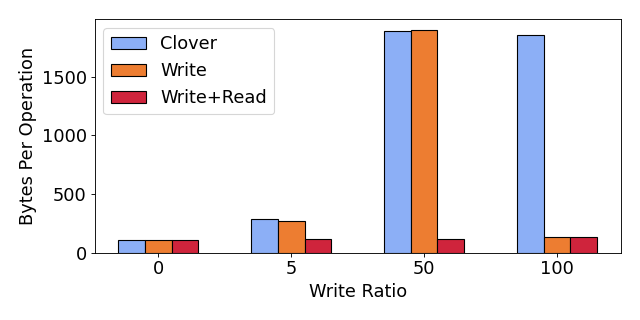
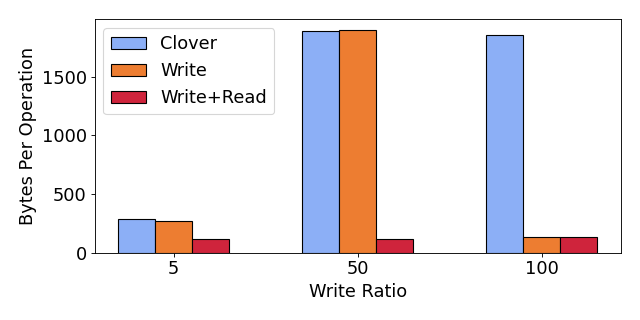
removed the read only case from the bandwidth reduction

Changed region(s): [[0.1875, 0.0938, 0.9062, 0.875]]

diff --git a/papers/NSDI23/fig/bandwidth_reduction.py b/papers/NSDI23/fig/bandwidth_reduction.py
@@ -31,20 +31,17 @@ read_write_steering_color='#cf243cff'     #alice
 write_steering_color='#ed7d31ff'          #kelly
 default_clover_color='#8caff6ff'          #Coral 
 
-# labels = ['50', '5', '100'] 
-# optimal = [1314, 1254, 1380]
-# read_write = [1300, 1253, 1343]
-# write = [3305, 1499, 1341]
-# clover = [2457, 1491, 3091]
 
-labels = [ '0','5','50', '100'] 
-optimal = [ 0, 1254,1314, 1380]
+# labels = [ '0','5','50', '100'] 
+# optimal = [ 0, 1254,1314, 1380]
+# clover=[(38540384,4085705128),(12619792,3588778832),(929800,  1755707042),(901140,  1676371302),]
+# write=[(40399508,4282772272),(13405036,3588778832),(1763680, 3344320676),(17110764,2203168988),]
+# read_write=[(39750630,4221172704),(35235112,3999323710),(27144320,3188139084),(17071776,2198105420),]
 
-clover=[(38540384,4085705128),(12619792,3588778832),(929800,  1755707042),(901140,  1676371302),]
-write=[(40399508,4282772272),(13405036,3588778832),(1763680, 3344320676),(17110764,2203168988),]
-
-
-read_write=[(39750630,4221172704),(35235112,3999323710),(27144320,3188139084),(17071776,2198105420),]
+labels = [ '5','50', '100'] 
+clover=[(12619792,3588778832),(929800,  1755707042),(901140,  1676371302),]
+write=[(13405036,3588778832),(1763680, 3344320676),(17110764,2203168988),]
+read_write=[(35235112,3999323710),(27144320,3188139084),(17071776,2198105420),]
 
 
 clover=bw_per_op(clover)
